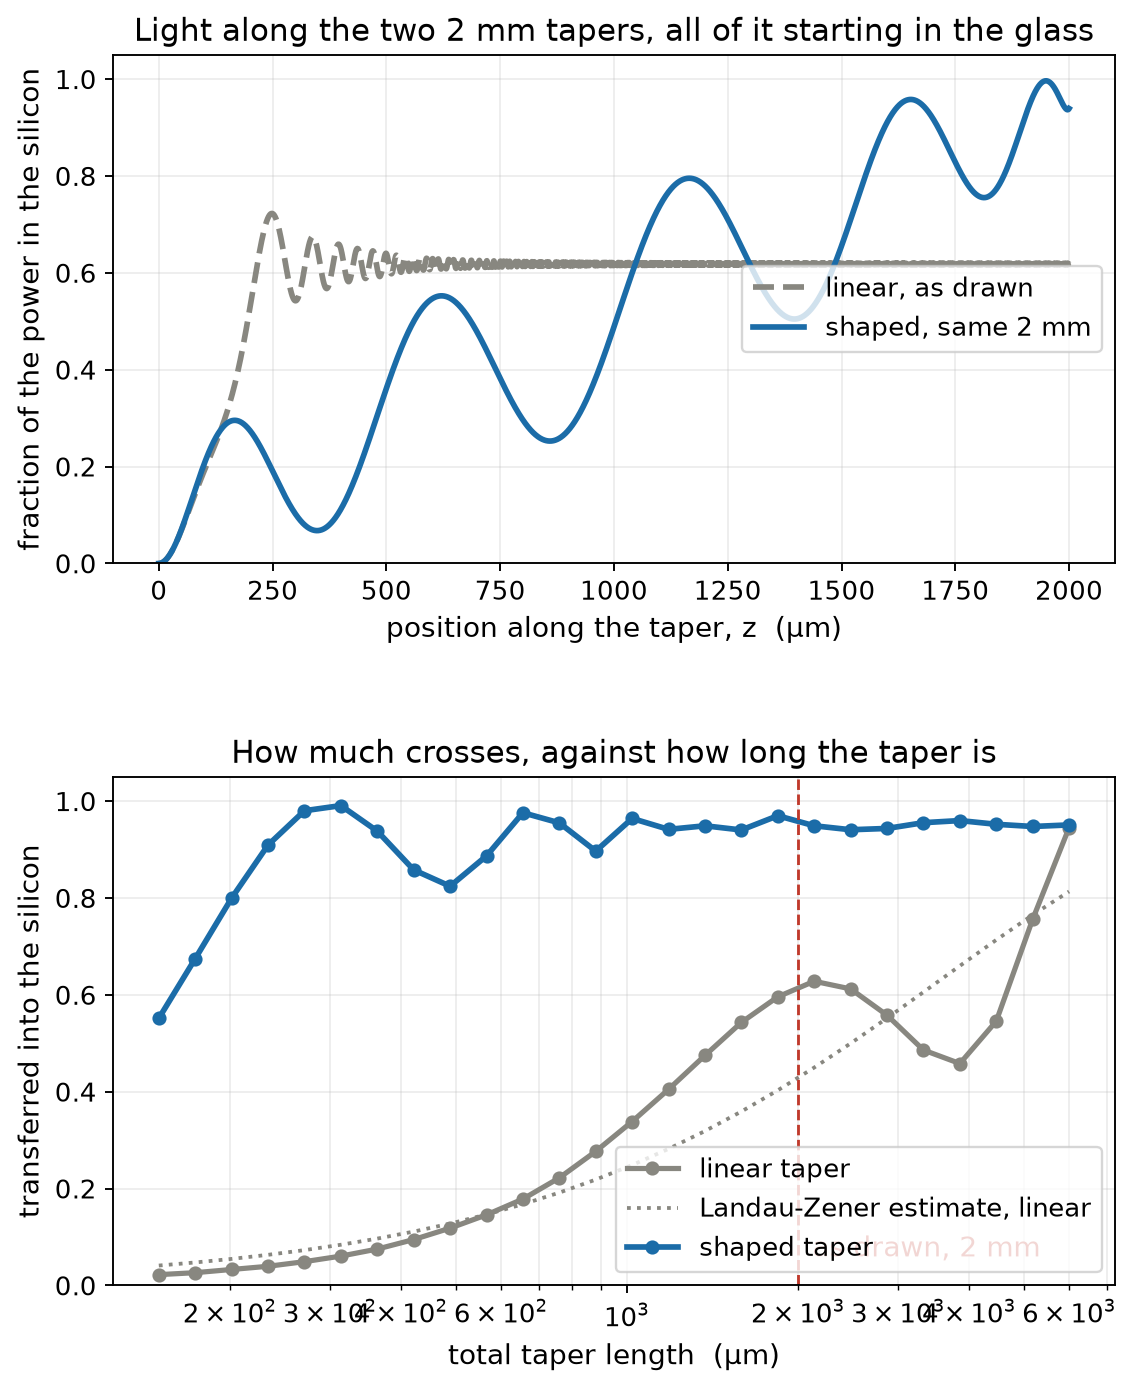
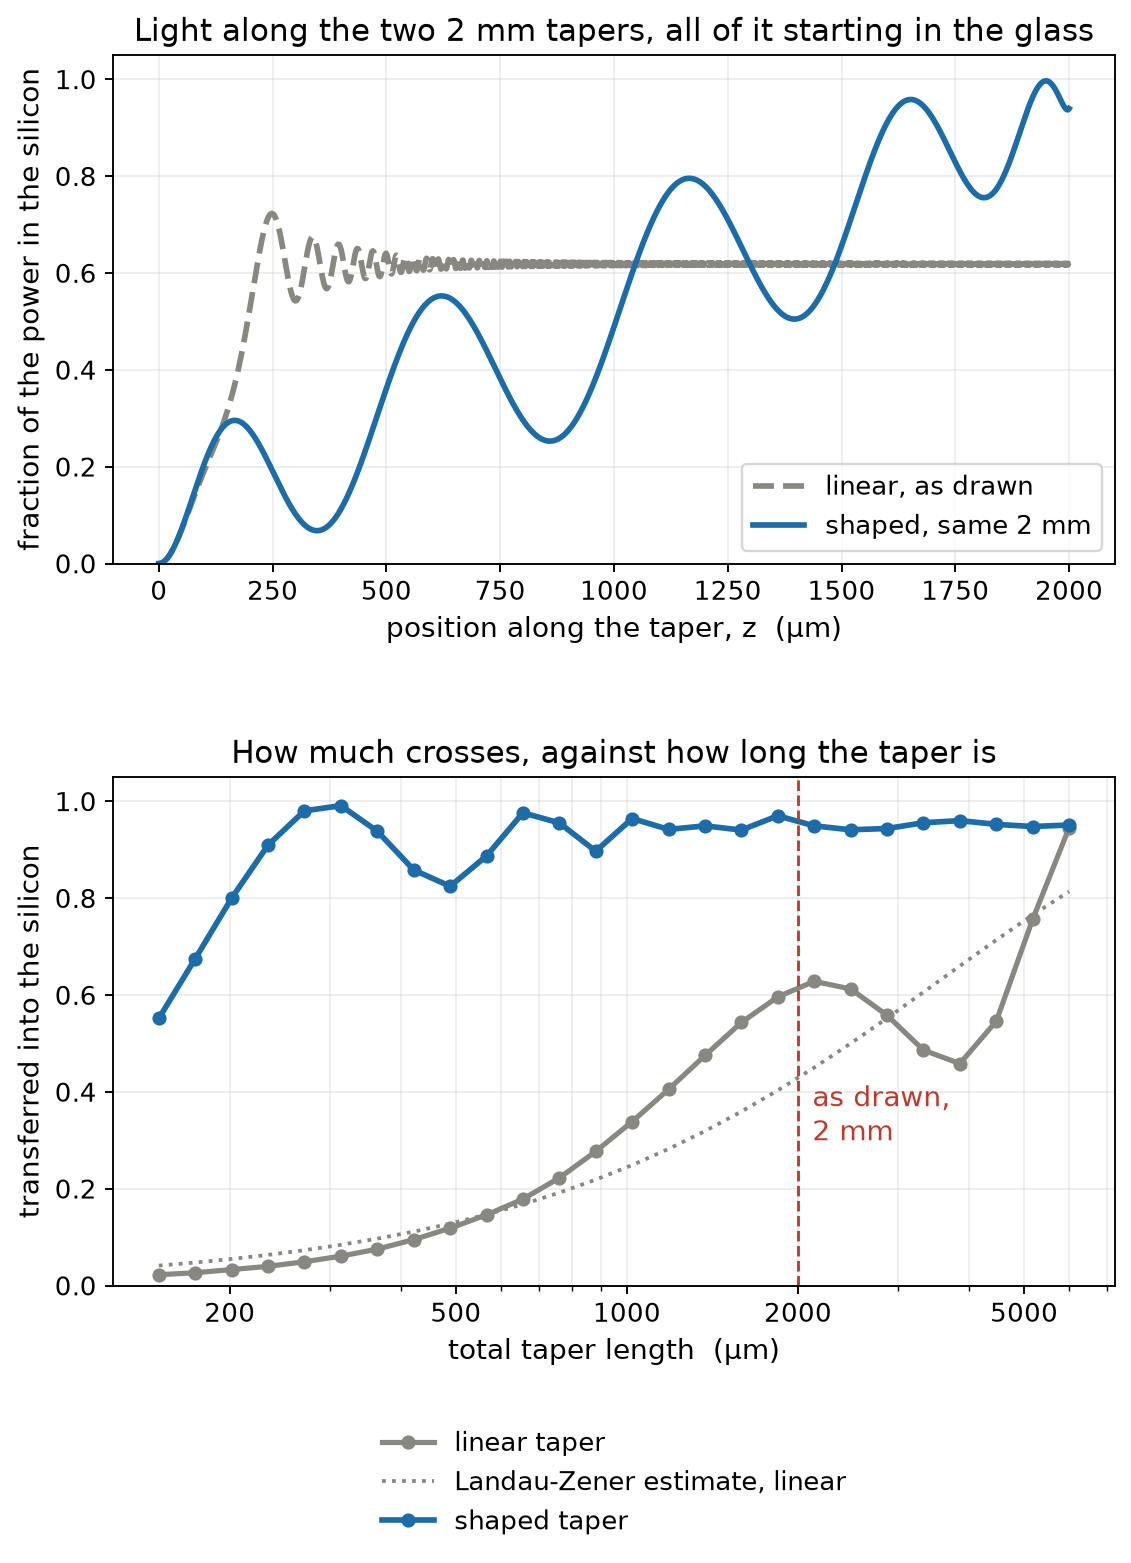
Propagation figure: legends and ticks clear

diff --git a/chain/figures.html b/chain/figures.html
@@ -88,7 +88,7 @@ anchor: <code>figures.html#name</code> jumps straight to it.</div>
 
 <figure id="taper-design"><span class="fid">taper-design</span><img src="img/taper-design.png?v=c46448e7" alt=""><figcaption>The fix. Top: the linear taper as drawn against a taper of the same 2 mm reshaped so that it moves slowly where the two guides are close in index and quickly where they are not. Bottom: the adiabaticity parameter along each; the linear taper exceeds 1 at the crossing, the shaped one holds about 0.04 everywhere.</figcaption></figure>
 
-<figure id="taper-propagate"><span class="fid">taper-propagate</span><img src="img/taper-propagate.png?v=8f63e03a" alt=""><figcaption>Rung 1: the two-mode coupled equations integrated along the taper. Top: the power in the silicon along the two 2 mm profiles, all of it starting in the glass. Bottom: the fraction transferred against total taper length for both profiles, with the Landau-Zener estimate for the linear one dotted. Regenerate with <code>chain/taper_propagate.py</code>.</figcaption></figure>
+<figure id="taper-propagate"><span class="fid">taper-propagate</span><img src="img/taper-propagate.png?v=0b584b89" alt=""><figcaption>Rung 1: the two-mode coupled equations integrated along the taper. Top: the power in the silicon along the two 2 mm profiles, all of it starting in the glass. Bottom: the fraction transferred against total taper length for both profiles, with the Landau-Zener estimate for the linear one dotted. Regenerate with <code>chain/taper_propagate.py</code>.</figcaption></figure>
 
 <h2>Aside: photonic computing</h2>
 <figure id="photonic-compute"><span class="fid">photonic-compute</span><img src="img/photonic-compute.svg?v=6956644c" alt=""><figcaption>One layer of a photonic neural network. The matrix multiply happens passively in a mesh of interferometers; the nonlinearity has to leave the optical domain or use a weak optical effect.</figcaption></figure>

diff --git a/chain/taper_propagate.py b/chain/taper_propagate.py
@@ -71,7 +71,7 @@ for name, prof, col, ls in (("linear, as drawn", w_linear, "#888780", "--"), ("s
     A = sol.sol(z)[0]
     a.plot(z, abs(A) ** 2, lw=2.4, color=col, ls=ls, label=name)
 a.set_xlabel("position along the taper, z  (µm)"); a.set_ylabel("fraction of the power in the silicon")
-a.set_ylim(0, 1.05); a.grid(alpha=.22); a.legend(loc="center right")
+a.set_ylim(0, 1.05); a.grid(alpha=.22); a.legend(loc="lower right")
 a.set_title("Light along the two 2 mm tapers, all of it starting in the glass")
 
 # ---- transmission against taper length ------------------------------------
@@ -82,9 +82,11 @@ lz = np.array([1 - np.exp(-2*np.pi*KAPPA**2 / (K0 * abs(np.gradient(delta_of_w(w
 b.semilogx(Ls, T_lin, "o-", ms=5, lw=2.2, color="#888780", label="linear taper")
 b.semilogx(Ls, lz, ":", lw=1.6, color="#888780", label="Landau-Zener estimate, linear")
 b.semilogx(Ls, T_sh, "o-", ms=5, lw=2.4, color="#1b6ca8", label="shaped taper")
-b.axvline(L_DRAWN, color="#c0392b", lw=1.2, ls="--"); b.text(L_DRAWN * 1.06, 0.06, "as drawn, 2 mm", color="#c0392b")
+b.axvline(L_DRAWN, color="#c0392b", lw=1.2, ls="--"); b.text(L_DRAWN * 1.06, 0.30, "as drawn,\n2 mm", color="#c0392b")
 b.set_ylim(0, 1.05); b.set_xlabel("total taper length  (µm)"); b.set_ylabel("transferred into the silicon")
-b.grid(alpha=.22, which="both"); b.legend(loc="lower right")
+b.grid(alpha=.22, which="both")
+from matplotlib.ticker import FixedLocator, FixedFormatter, NullFormatter
+b.xaxis.set_major_locator(FixedLocator([200, 500, 1000, 2000, 5000])); b.xaxis.set_major_formatter(FixedFormatter(["200", "500", "1000", "2000", "5000"])); b.xaxis.set_minor_formatter(NullFormatter()); b.legend(loc="upper center", bbox_to_anchor=(0.5, -0.24), ncol=1, frameon=False)
 b.set_title("How much crosses, against how long the taper is")
 
 out = pathlib.Path(__file__).parent / "img" / "taper-propagate.png"
